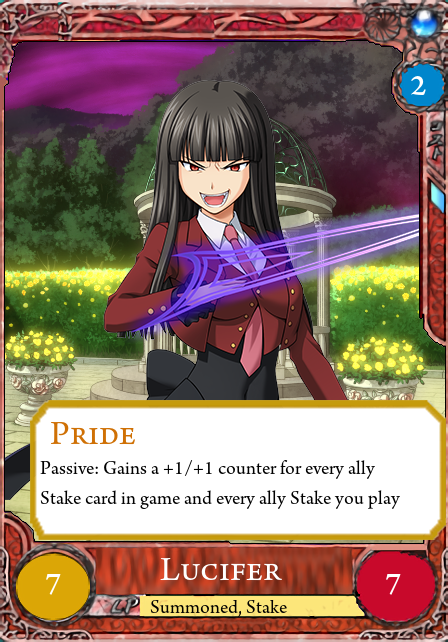
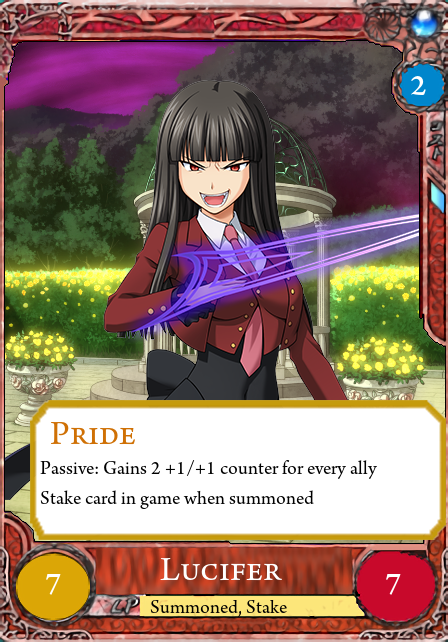
Lucifer

Changed region(s): [[0.3438, 0.7165, 0.875, 0.81]]

diff --git a/Assets/Scripts/Deck.cs b/Assets/Scripts/Deck.cs
@@ -96,7 +96,9 @@ public class Deck
         Card satan = new Card(1, 2, 6, CardEffects.SatanEffect, "Satan", new List<TagType> { TagType.Summoned, TagType.Stake }, true, false, 0);
         AddCardRegister(satan);
         EffectListener.INSTANCE.DestroysCardsList.Add(satan);
-        AddCardRegister(new Card(2, 7, 7, CardEffects.LuciferEffect, "Lucifer", new List<TagType> { TagType.Summoned, TagType.Stake }, true, false, 0));
+        Card lucifer = new Card(2, 7, 7, CardEffects.LuciferEffect, "Lucifer", new List<TagType> { TagType.Summoned, TagType.Stake }, true, false, 0);
+        AddCardRegister(lucifer);
+        EffectListener.INSTANCE.CardPlayedList.Add(lucifer);
         Card gaap = new Card(2, 4, 4, CardEffects.GaapEffect, "Gaap", new List<TagType> { TagType.Summoned, TagType.Demon }, true, false, 0);
         AddCardRegister(gaap);
         EffectListener.INSTANCE.CanAttackFromAnywhereList.Add(gaap);

diff --git a/Assets/Scripts/CardEffects.cs b/Assets/Scripts/CardEffects.cs
@@ -80,7 +80,10 @@ public class CardEffects
 
     internal static bool LuciferEffect(Card c)
     {
-        Debug.Log("");
+        List<CardObject> stakes = GameStart.INSTANCE.FindCardsInGameByTag(Deck.TagType.Stake);
+        GameObject luciferGO = c.GetTargetCard();
+        CardObject lucifer = GameStart.INSTANCE.FindCardObject(luciferGO);
+        GameStart.INSTANCE.AddCounter(lucifer, (stakes.Count-1)*2);
         return true;
     }
 
@@ -101,13 +104,13 @@ public class CardEffects
 
     internal static bool RonoveEffect(Card c)
     {
-        Debug.Log("");
+        Debug.Log("Gives ally card a shield");
         return true;
     }
 
     internal static bool WillEffect(Card c)
     {
-        Debug.Log("");
+        Debug.Log("Witches cant use their skill");
         return true;
     }
 

diff --git a/Assets/Scripts/EffectListener.cs b/Assets/Scripts/EffectListener.cs
@@ -10,10 +10,23 @@ public class EffectListener
     public List<Card> TurnEndingList = new List<Card>();
     public List<Card> CanAttackFromAnywhereList = new List<Card>();
     public List<Card> DestroysCardsList = new List<Card>();
+    public List<Card> CardPlayedList = new List<Card>();
 
     public EffectListener()
     {
         INSTANCE = this;
+    }
+
+    public bool OnCardPlayed(CardObject cardPlayed)
+    {
+        if (CardPlayedList.Contains(cardPlayed.card))
+        {
+            Card c = cardPlayed.card;
+            c.InitializeEffectParametrs();
+            c.SetTargetCard(cardPlayed.GameObject);
+            c.Effect.Invoke(c);
+        }
+        return true;
     }
 
     public bool OnTrunEnd()

diff --git a/Assets/Scripts/CardZoom.cs b/Assets/Scripts/CardZoom.cs
@@ -185,6 +185,7 @@ public class CardZoom : MonoBehaviour, IPointerEnterHandler, IPointerExitHandler
                                 co.currentATK = card.Attack;
                                 co.card = card;
                                 GameStart.INSTANCE.CardGameObjectsInGame.Add(co);
+                                EffectListener.INSTANCE.OnCardPlayed(co);
                                 GameStart.INSTANCE.UpdateStatBoxes(co, eventData.pointerClick.gameObject, previousParent);
                                 RemovePreviousMark();
                                 GameStart.INSTANCE.RecalculateCosts();

diff --git a/Assets/Scripts/GameStart.cs b/Assets/Scripts/GameStart.cs
@@ -79,6 +79,19 @@ public class GameStart : MonoBehaviour
         Debug.Log("Get rekt m8");
     }
 
+    internal List<CardObject> FindCardsInGameByTag(Deck.TagType stake)
+    {
+        List<CardObject> ret = new List<CardObject>();
+        foreach(CardObject co in GameStart.INSTANCE.CardGameObjectsInGame)
+        {
+            if (co.card.Tags.Contains(stake))
+            {
+                ret.Add(co);
+            }
+        }
+        return ret;
+    }
+
     internal List<CardObject> FindCardObject(Card c)
     {
         List<CardObject> co = new List<CardObject>();

diff --git a/Assets/Scripts/AIFunctions.cs b/Assets/Scripts/AIFunctions.cs
@@ -293,6 +293,11 @@ public class AIFunctions : MonoBehaviour
             Card ret = PlayCardInSlot(card, slotNumber);
             if (ret!=null)
             {
+                List<CardObject> co = GameStart.INSTANCE.FindCardObject(ret);
+                if(co.Count != 0)
+                {
+                    EffectListener.INSTANCE.OnCardPlayed(co[0]);
+                }
                 GameStart.INSTANCE.RecalculateCosts();
             }
             return ret;
